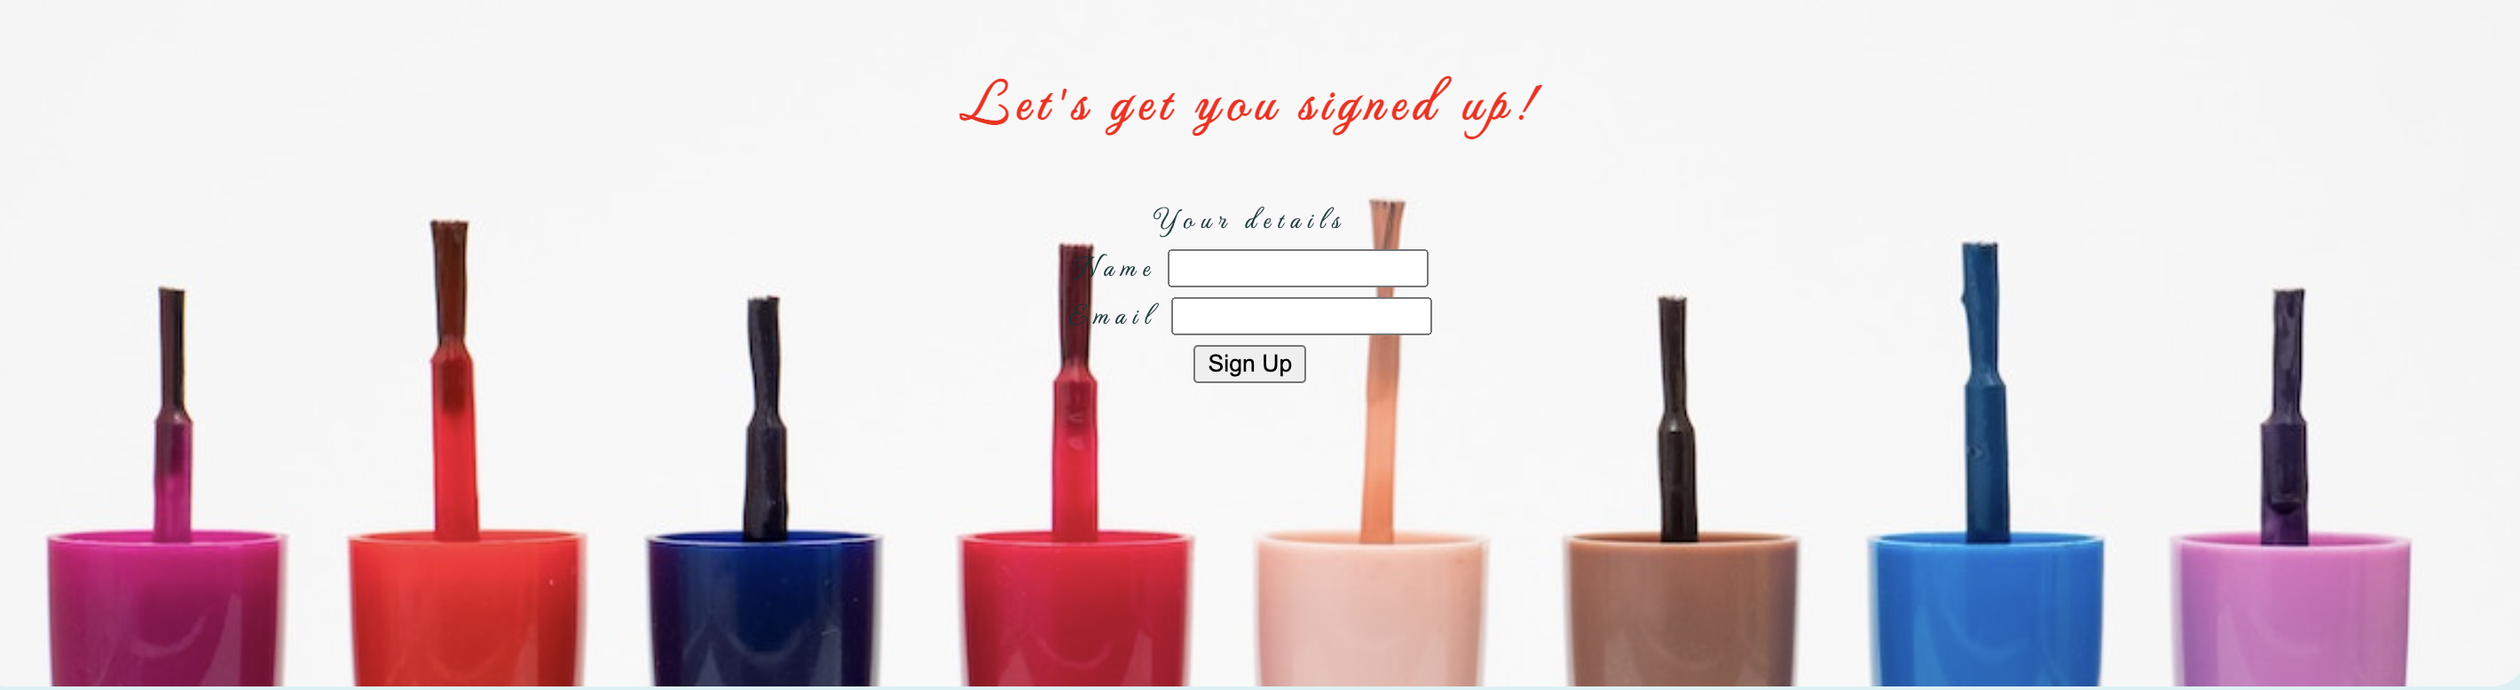
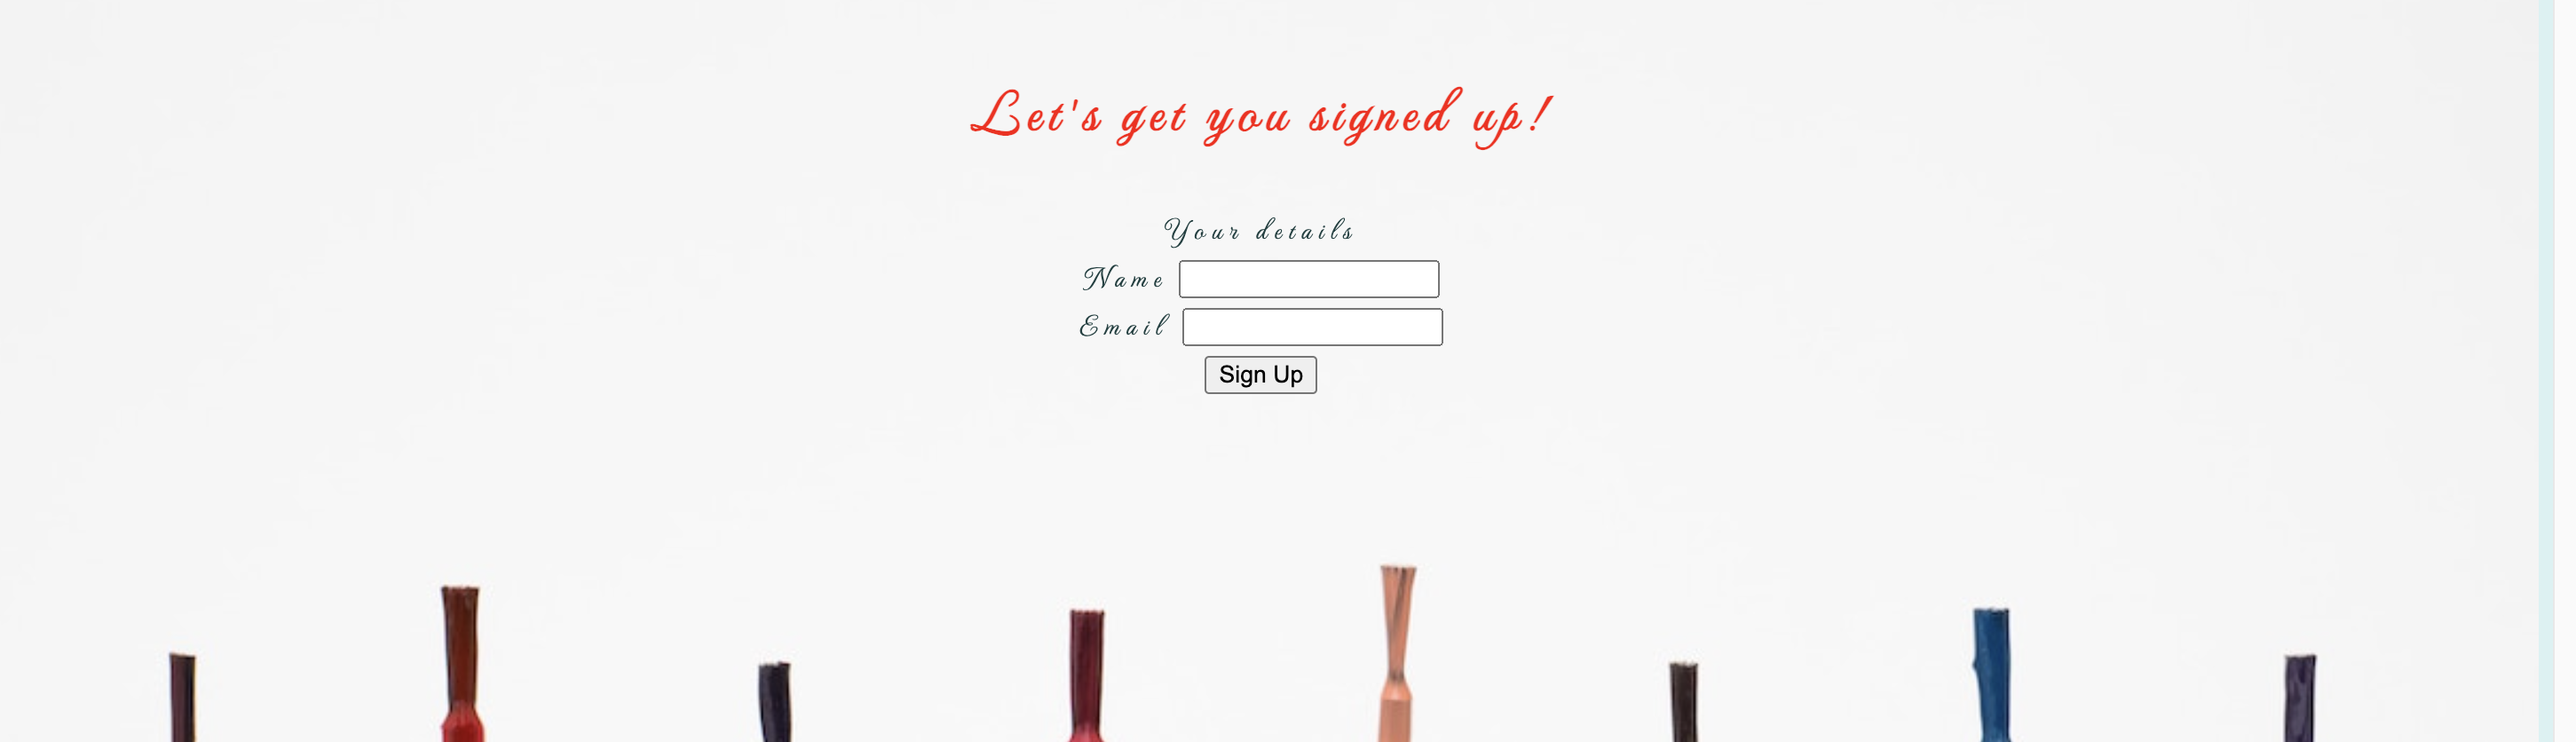
new screenshot added to sign-up section

diff --git a/assets/css/style2.css b/assets/css/style2.css
@@ -12,7 +12,7 @@
   [class*="col-"] {
     float: left;
     padding: 15px;
-    /* border: 1px solid; */
+    
   }
   
  
@@ -27,7 +27,6 @@
   
   
 
-  /* For mobile phones: */
   [class*="col-"] {
     width: 100%;
   }
@@ -48,11 +47,7 @@
     letter-spacing: 6px;
 }
 
-/* 
-#menu{
-    background-color: rgba(200, 0, 0, 0.7);
-    
-} */
+
 
 #menu-options {
     margin-top: 7px;
@@ -65,6 +60,7 @@
     background-position: center center;
     min-height: 400px;
     height: auto;
+    height: 800px;
     
 }
   
@@ -79,6 +75,7 @@
     background-position: center center;
     min-height: 400px;
     height: auto;
+    height: 800px;
 }
 
 
@@ -113,6 +110,7 @@
     min-height: 400px;
     height: auto;
     text-align: center;
+    height: 800px;
    
 }
 
@@ -140,11 +138,13 @@ footer {
     min-height: 400px;
     height: auto;
     text-align: center;
+    height: 800px;
+    
     
 }
 
   @media only screen and (min-width: 600px) {
-    /* For tablets: */
+
     .col-s-1 {width: 8.33%;}
     .col-s-2 {width: 16.66%;}
     .col-s-3 {width: 25%;}
@@ -159,7 +159,7 @@ footer {
     .col-s-12 {width: 100%;}
   }
   @media only screen and (min-width: 768px) {
-    /* For desktop: */
+   
     .col-1 {width: 8.33%;}
     .col-2 {width: 16.66%;}
     .col-3 {width: 25%;}

diff --git a/index2.html b/index2.html
@@ -23,7 +23,7 @@
                 <a href="#sign-up">Sign Up</a>
                </div>
                <div class="col-3"> 
-                <a href="#contacts">Contact Us</a>
+                <a href="#contact">Contact Us</a>
                 </div>
                
                 

diff --git a/assets/media/README.md b/assets/media/README.md
@@ -28,7 +28,7 @@ ___
   The Header shows the name of the club. And continuing the computer code font theme.
   The header explains the user with clear information about what the site is.
 
-  ![](header.png)
+  ![](screenshots/header.png)
 
 
 ### The About Us 
